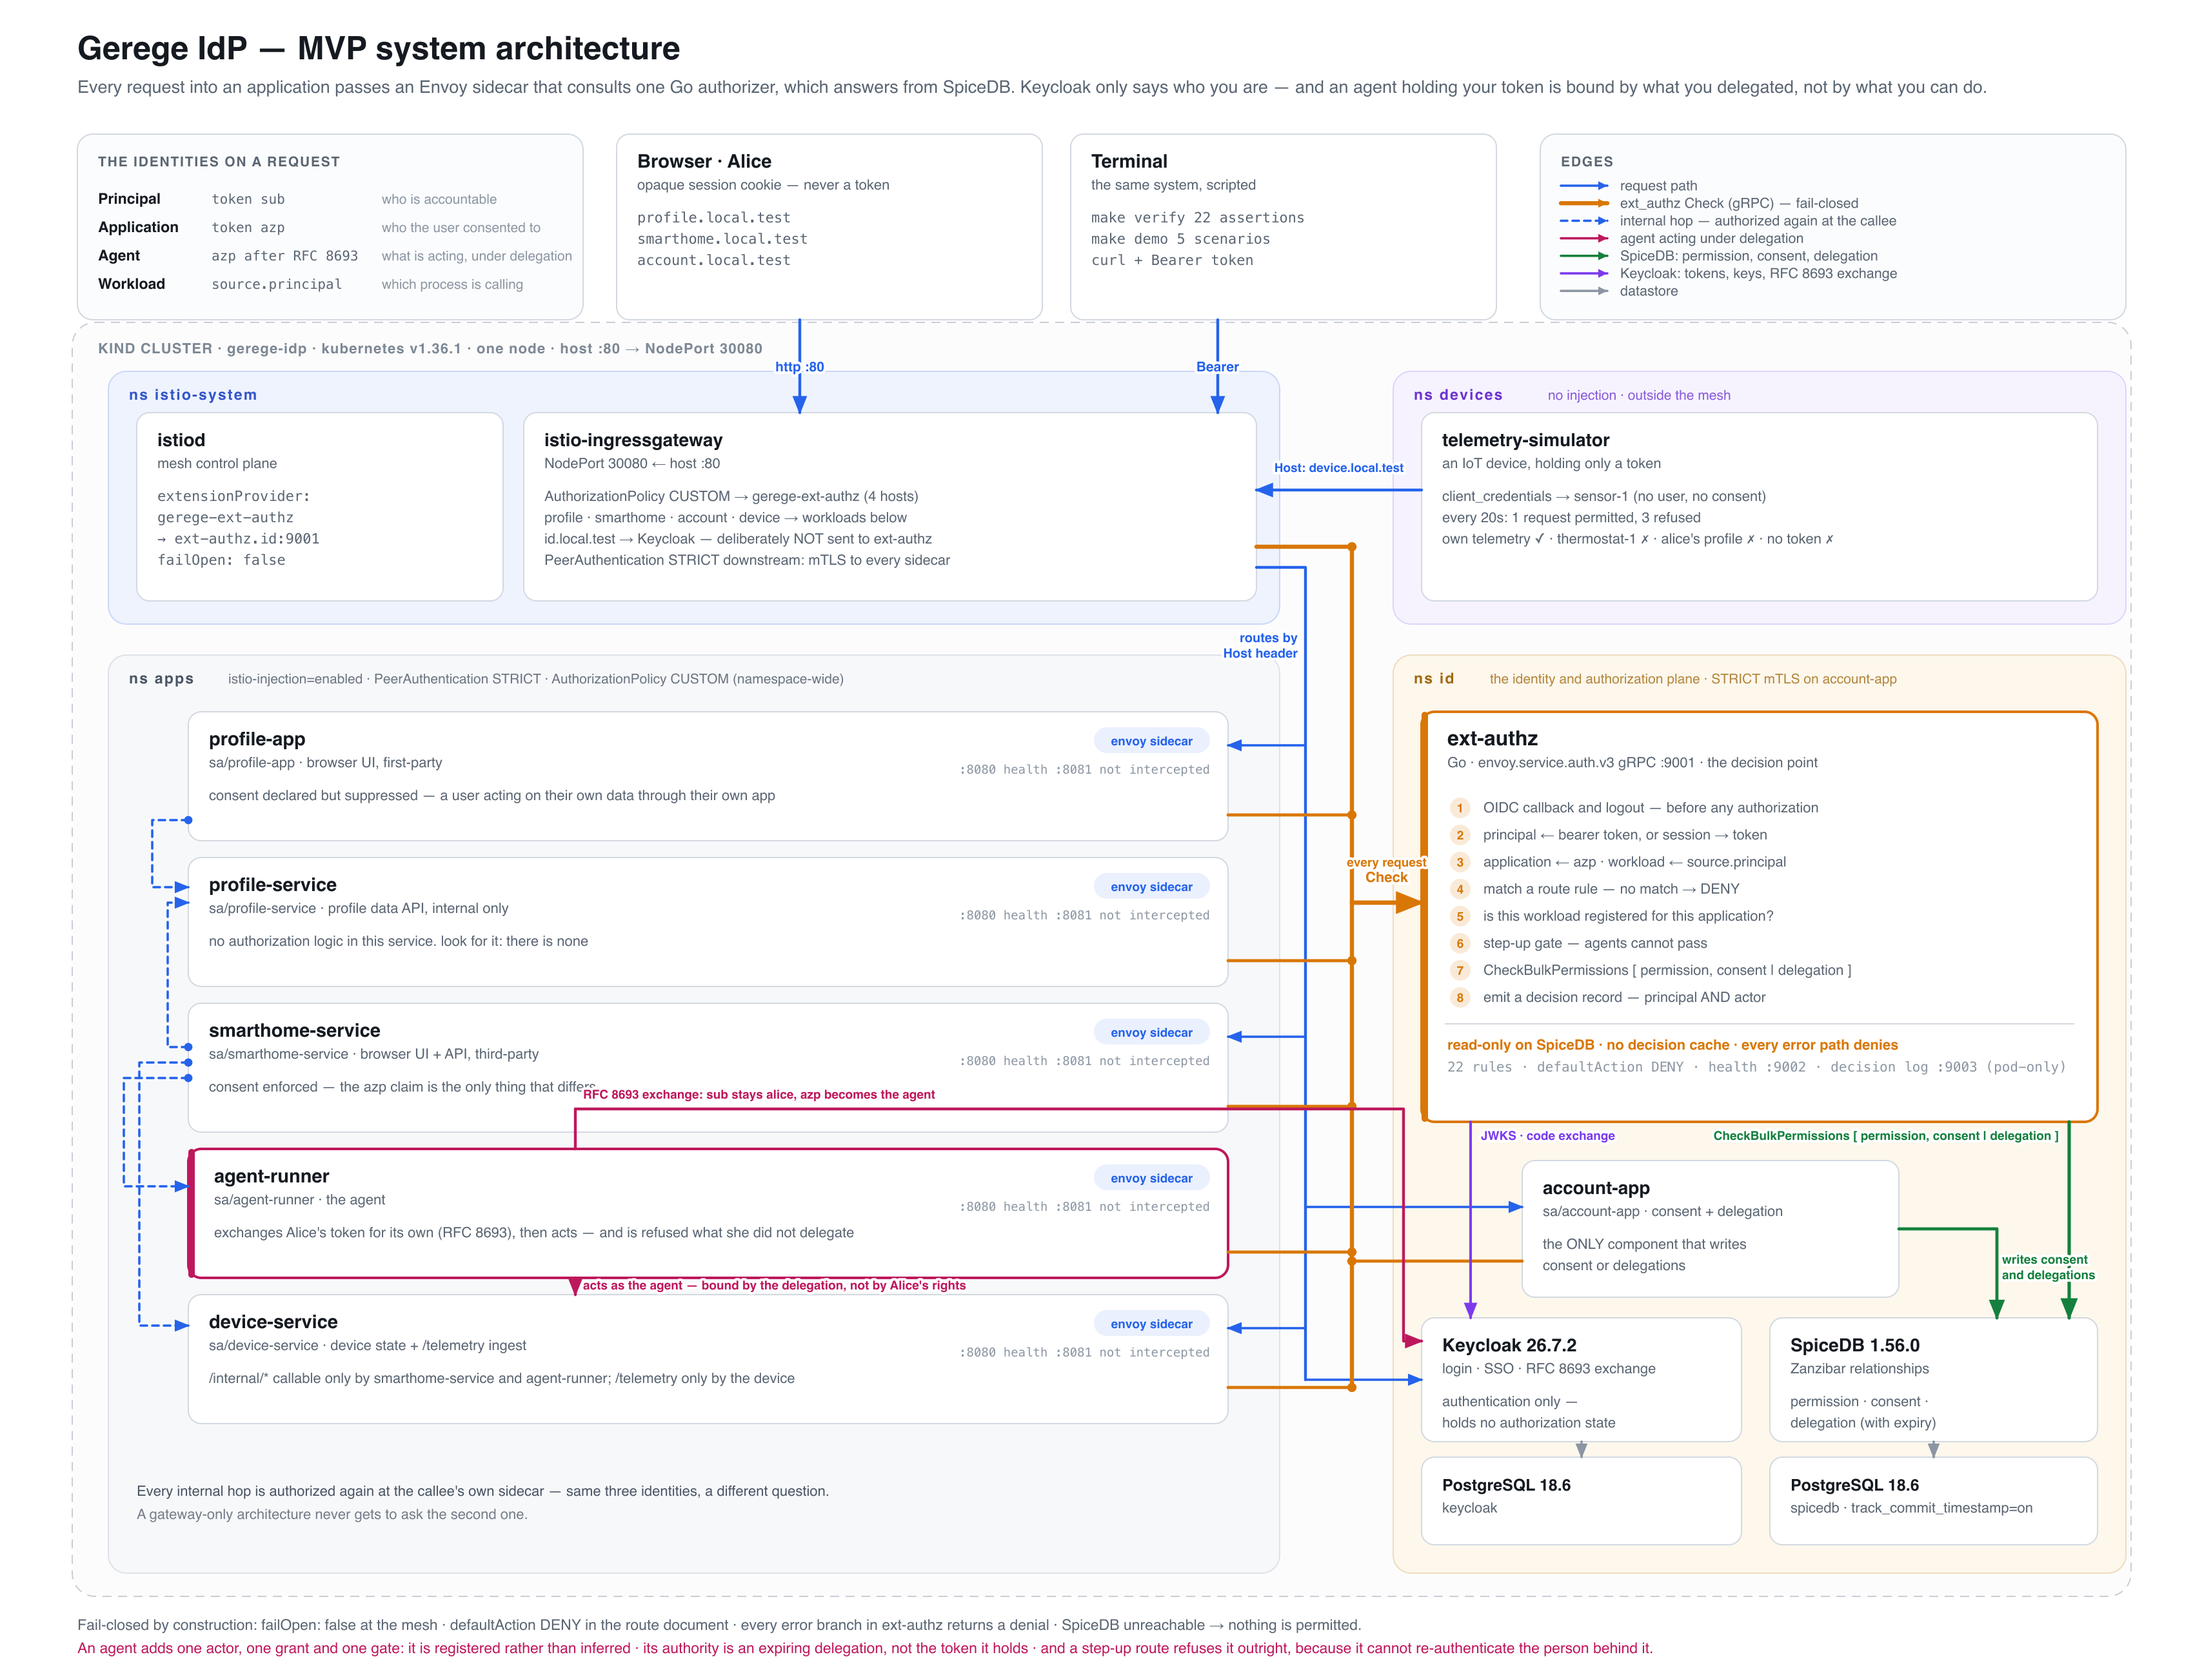
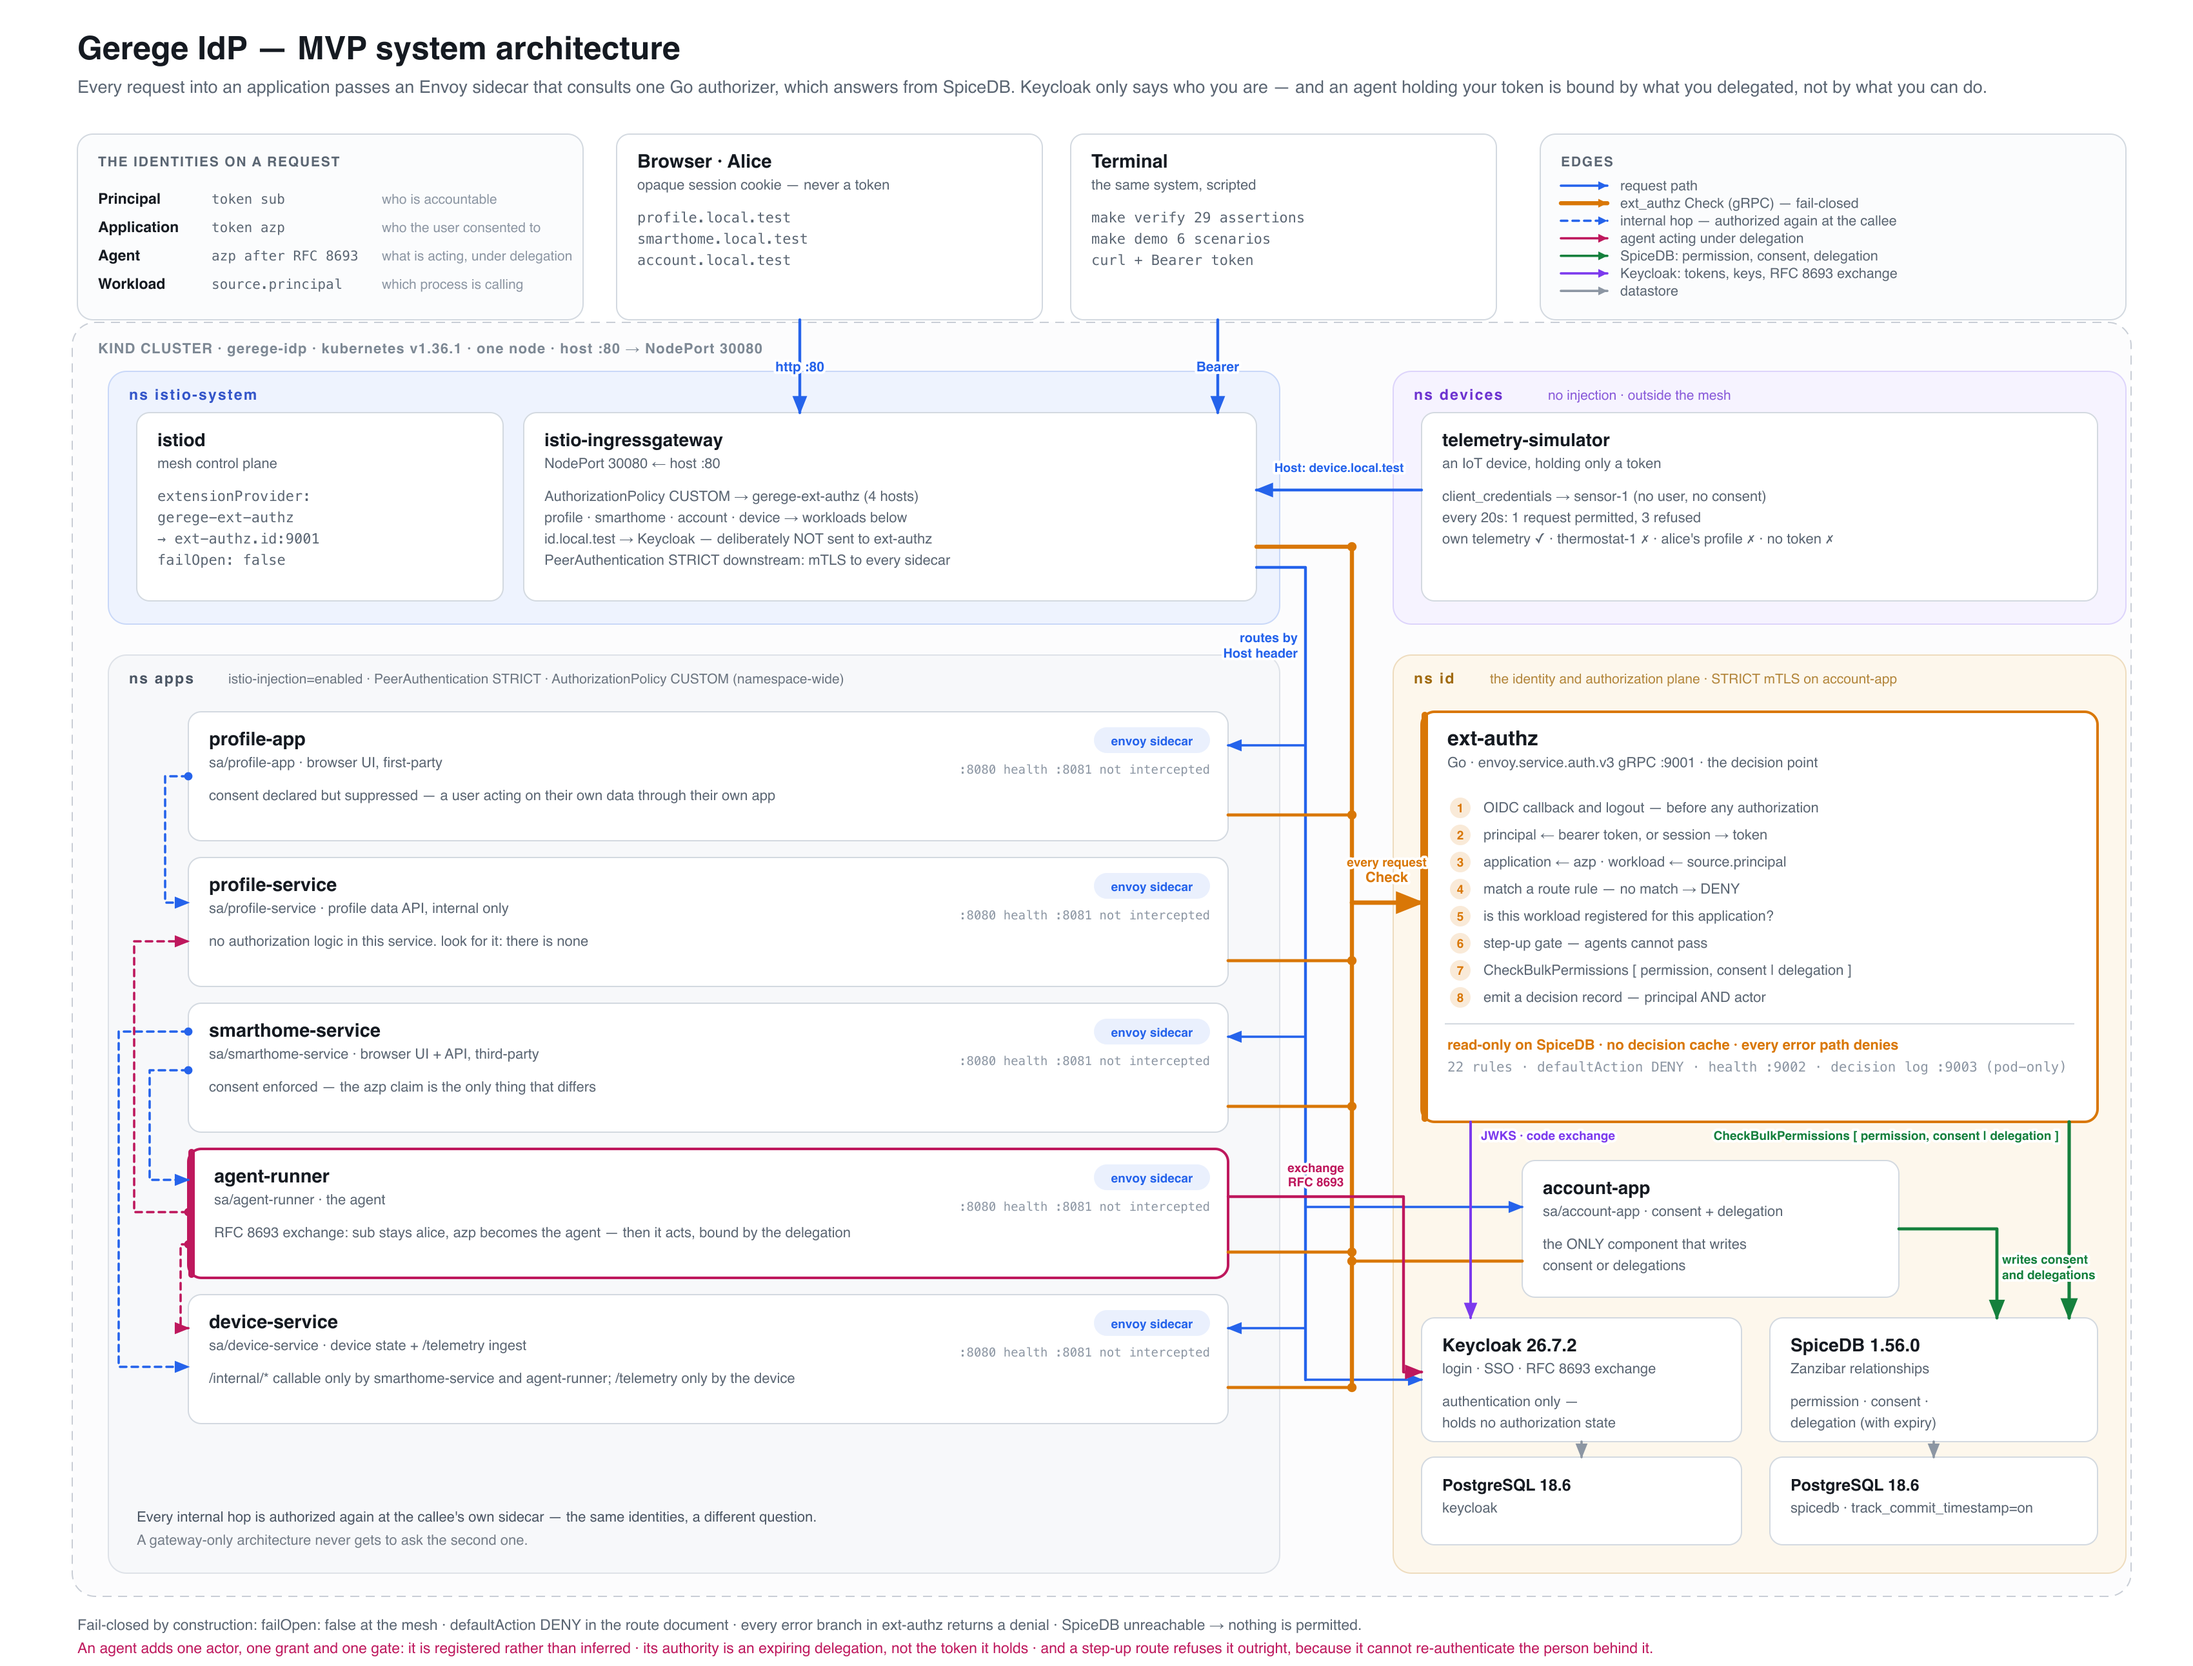
Update system diagram

diff --git a/docs/make-architecture.py b/docs/make-architecture.py
@@ -129,7 +129,7 @@ card(478, 104, 330, 144, "Browser  ·  Alice", "opaque session cookie — never 
 
 # --- terminal ---------------------------------------------------------------
 card(830, 104, 330, 144, "Terminal", "the same system, scripted",
-     ["make verify   22 assertions", "make demo     5 scenarios", "curl + Bearer token"],
+     ["make verify   29 assertions", "make demo     6 scenarios", "curl + Bearer token"],
      mono_lines=True)
 
 # --- legend -----------------------------------------------------------------
@@ -188,7 +188,7 @@ apps = [
     (778, "smarthome-service", "sa/smarthome-service  ·  browser UI + API, third-party",
      "consent enforced — the azp claim is the only thing that differs", None),
     (891, "agent-runner",      "sa/agent-runner  ·  the agent",
-     "exchanges Alice's token for its own (RFC 8693), then acts — and is refused what she did not delegate", AGENT),
+     "RFC 8693 exchange: sub stays alice, azp becomes the agent — then it acts, bound by the delegation", AGENT),
     (1004, "device-service",   "sa/device-service  ·  device state + /telemetry ingest",
      "/internal/* callable only by smarthome-service and agent-runner; /telemetry only by the device", None),
 ]
@@ -200,9 +200,9 @@ for y, name, sub, note, accent in apps:
     text(APP_X + APP_W - 14, y + 48, ":8080   health :8081 not intercepted", 9.5, FAINT,
          anchor="end", family=MONO)
 
-text(106, 1160, "Every internal hop is authorized again at the callee's own sidecar — same three identities, a different question.",
+text(106, 1180, "Every internal hop is authorized again at the callee's own sidecar — the same identities, a different question.",
      11, NS["apps"]["label"])
-text(106, 1178, "A gateway-only architecture never gets to ask the second one.", 11, NS["apps"]["label"], opacity="0.75")
+text(106, 1198, "A gateway-only architecture never gets to ask the second one.", 11, NS["apps"]["label"], opacity="0.75")
 
 # -------------------------------------------------------------------- ns id --
 nsbox(1080, 508, 568, 712, "id", "ns id", "the identity and authorization plane · STRICT mTLS on account-app")
@@ -279,23 +279,23 @@ alabel(1075, 684, "Check", CHECK, size=11)
 alabel(1075, 672, "every request", CHECK, size=9.5)
 
 # --- internal service-to-service hops ---------------------------------------
-for a, b, rail in ((636, 688, 118), (824, 1028, 108), (812, 700, 130)):
-    path([(APP_X, a), (rail, a), (rail, b), (APP_X, b)], REQ, 1.8, dash="5 4")
-    e(f'<circle cx="{APP_X}" cy="{a}" r="3.2" fill="{REQ}"/>')
+# Blue: a service calling another service. Pink: the agent calling, with an
+# identity of its own and only the authority Alice delegated to it.
+hops = [
+    (800, 1060, 92,  REQ,   "smarthome-service → device-service"),
+    (940, 730,  104, AGENT, "agent-runner → profile-service"),
+    (830, 915,  116, REQ,   "smarthome-service → agent-runner"),
+    (602, 700,  128, REQ,   "profile-app → profile-service"),
+    (965, 1030, 140, AGENT, "agent-runner → device-service"),
+]
+for a, b, rail, colour, _ in hops:
+    path([(APP_X, a), (rail, a), (rail, b), (APP_X, b)], colour, 1.8, dash="5 4")
+    e(f'<circle cx="{APP_X}" cy="{a}" r="3.2" fill="{colour}"/>')
 
-# --- the agent: exchange, then act under delegation --------------------------
-# smarthome-service hands the task to the agent...
-path([(APP_X, 836), (96, 836), (96, 920), (APP_X, 920)], REQ, 1.8, dash="5 4")
-e(f'<circle cx="{APP_X}" cy="836" r="3.2" fill="{REQ}"/>')
-# ...the agent trades Alice's token for one of its own...
-path([(APP_X + 300, 891), (APP_X + 300, 860)], AGENT, 2.2, marker=False)
-path([(APP_X + 300, 860), (1088, 860), (1088, 1040), (ID_L, 1040)], AGENT, 2.2)
-alabel(APP_X + 306, 852, "RFC 8693 exchange:  sub stays alice,  azp becomes the agent",
-       AGENT, anchor="start", size=9.5)
-# ...and then calls downstream as itself.
-path([(APP_X + 300, 991), (APP_X + 300, 1004)], AGENT, 2.2)
-alabel(APP_X + 306, 1000, "acts as the agent — bound by the delegation, not by Alice's rights",
-       AGENT, anchor="start", size=9.5)
+# --- the agent trades Alice's token for one of its own -----------------------
+path([(APP_R, 928), (1088, 928), (1088, 1064), (ID_L, 1064)], AGENT, 2.2)
+alabel(1020, 920, "RFC 8693", AGENT, size=9.5)
+alabel(1020, 909, "exchange", AGENT, size=9.5)
 
 # --- ext-authz outbound ------------------------------------------------------
 path([(1140, 870), (1140, 1022)], IDENT, 2.0)
